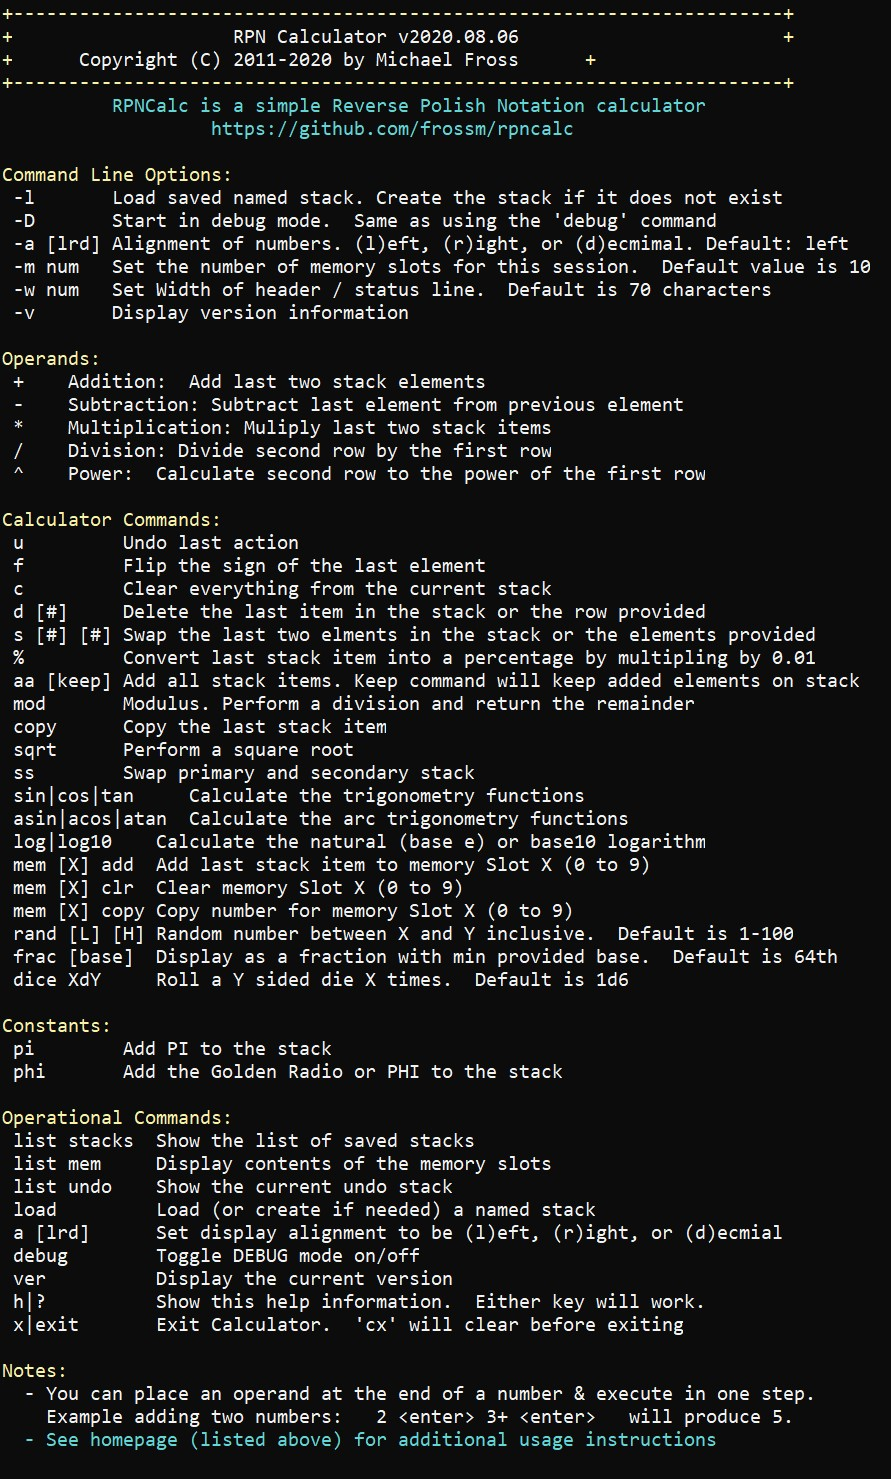
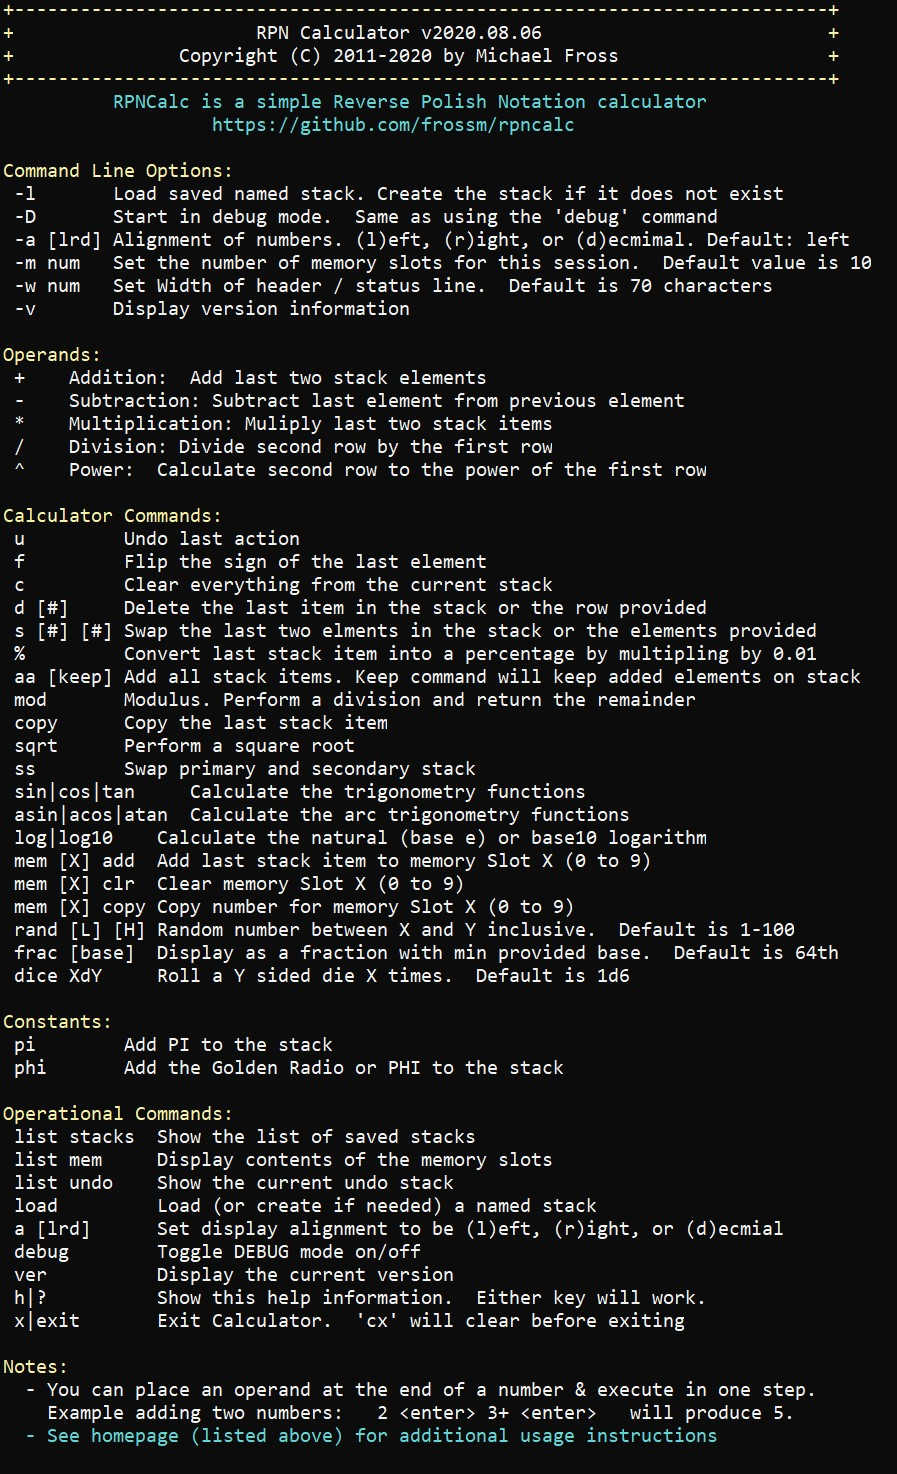
Corrected spacing issue in help

diff --git a/src/main/java/org/fross/rpncalc/Help.java b/src/main/java/org/fross/rpncalc/Help.java
@@ -40,11 +40,11 @@ public class Help {
 	 * Display(): Show help information
 	 */
 	public static void Display() {
-		Output.printColor(Ansi.Color.YELLOW, "\n+----------------------------------------------------------------------+\n+");
-		Output.printColor(Ansi.Color.WHITE, "                    RPN Calculator v" + Main.VERSION + "                        ");
+		Output.printColor(Ansi.Color.YELLOW, "\n+--------------------------------------------------------------------------+\n+");
+		Output.printColor(Ansi.Color.WHITE, "                      RPN Calculator v" + Main.VERSION + "                          ");
 		Output.printColor(Ansi.Color.YELLOW, "+\n+");
-		Output.printColor(Ansi.Color.WHITE, "      " + Main.COPYRIGHT + "      ");
-		Output.printColorln(Ansi.Color.YELLOW, "+\n+----------------------------------------------------------------------+");
+		Output.printColor(Ansi.Color.WHITE, "               " + Main.COPYRIGHT + "                   ");
+		Output.printColorln(Ansi.Color.YELLOW, "+\n+--------------------------------------------------------------------------+");
 		Output.printColorln(Ansi.Color.CYAN, "          RPNCalc is a simple Reverse Polish Notation calculator");
 		Output.printColorln(Ansi.Color.CYAN, "                   https://github.com/frossm/rpncalc");
 
